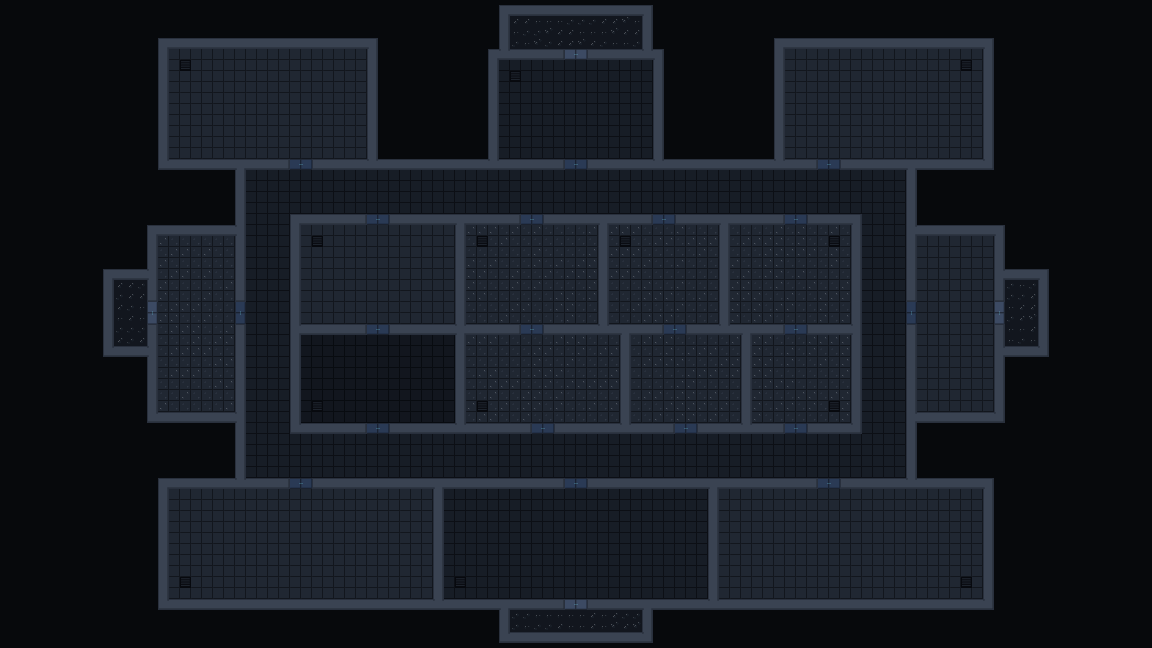
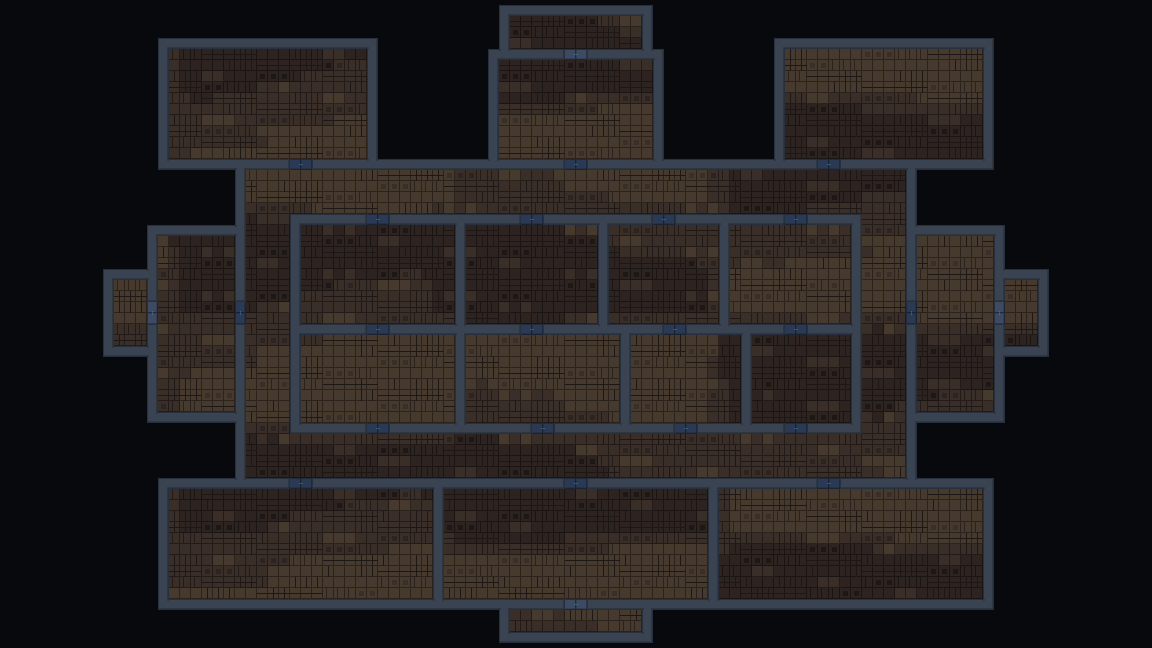
Environment: one brown floor everywhere with varied panels and soft tone patches; remove other floor art

Changed region(s): [[0.0938, 0.0, 0.9062, 0.9877], [0.6562, 0.0617, 0.875, 0.2469], [0.75, 0.216, 0.7812, 0.2469]]

diff --git a/docs/night_shift_environment_plan.md b/docs/night_shift_environment_plan.md
@@ -40,7 +40,7 @@ ight_shift_character.gd` (that only controls nearest-neighbour filtering). Scale
 | Camera zoom | 2x suggested: a 1152 x 648 view then shows 13 x 7.4 m |
 
 ## Palette
-All piece colours are Palette A names (`env_mesh.gd` `PAL`, copied from the kit): floors `floor` #1a1f27 / `tile` #222833 / `deep` #151920,
+All piece colours are Palette A names (`env_mesh.gd` `PAL`, copied from the kit): the floor is brown, built on the kit's `duffel` #3a2f2a in three tones (`brown_dark` #332a26, `brown` #3a2f2a, `brown_light` #42362f) over `brown_deep` #1f1a18 gaps,
 walls `wall` #2a313d with a plain `wall_top` #3a4352 cap, door leaves `uniform` #2b3a55 (`armor` #3c4a63 for exterior doors), door lights `item` #6fd3e8 or
 `alarm` #e5484d, hazard stripes `backup` #f2b544. Screens and lights are flat colours with no shading. Because the cel bands are derived from
 the base colour (as for the characters), the finished pixels sit slightly outside the 25 named colours.
@@ -62,11 +62,11 @@ editing the rect list is the whole workflow.
 | File | Job |
 |---|---|
 | `render/env_render.gd/.tscn` | Photographs the pieces from above and writes the images to `art/` (needs a window). Rendering everything takes about 20 s |
-| `render/env_pieces.gd` | The pieces: floor kinds (5 x 4 variants), vent grille, 256 wall tiles, doors (interior / exterior x closed / locked / open x horizontal / vertical), console |
+| `render/env_pieces.gd` | The pieces: the one brown floor (6 panel shapes x 3 tones), 256 wall tiles, doors (interior / exterior x closed / locked / open x horizontal / vertical) |
 | `render/env_mesh.gd` | Building blocks: beveled plates, studs, flat quads, cel and flat materials |
 | `render/*.gdshader` | `cel` (the character material), `flat` (glowing parts), `height` (for the ink) |
 | `facility_tileset.gd` | Builds the TileSet in code from `floors.png` and `walls.png`; walls get collision (layer 2) and a light occluder |
-| `facility_map.gd/.tscn` | Reads the layout; paints floors and walls; places doors and vents; room queries (`room_at`, `rooms_of_kind`, `doors_of_room`, `room_rects_px`) |
+| `facility_map.gd/.tscn` | Reads the layout; paints the floor (random panel shape per cell, tone from slow noise so big rooms show soft patches, not a grid of copies) and walls; places doors; keeps the vent positions; room queries (`room_at`, `rooms_of_kind`, `doors_of_room`, `room_rects_px`) |
 | `facility_door.gd` | Sliding door, `State.OPEN / CLOSED / LOCKED`, blocks movement (layer 4) and light |
 | `facility_test.tscn` | Fly-around viewer: WASD, 1/2/3 zoom, R doors, M overview, B 1 m box; `--ref=` draws a cel character for scale |
 
@@ -85,7 +85,7 @@ godot --headless --path . --import        # then keep mipmaps on: mipmaps/genera
 Removed for now: no lamps, flashlight, ambient darkness or light textures, so the art shows as drawn. Walls and doors still carry light occluders (inert until lights exist). Lighting is the next thing to do, after the art is settled; the old setup (amber banded lamps, flashlight cone) is in git history at `4138938`.
 
 ## Status
-Done: renderer, simple floors (steel panels, plate, dark steel, asphalt, vent grille), plain walls, doors, console, tileset and map builder on the new art, viewer, screenshots in
+Done: renderer, one brown floor everywhere (all other floor kinds, the vent grille and the console art are removed), plain walls, doors, tileset and map builder on the new art, viewer, screenshots in
 `docs/night_shift/`. Replaced: the first flat tiles and the oblique demo, both abandoned.
 
 Next, in this order (each is one more piece in `env_pieces.gd`):
